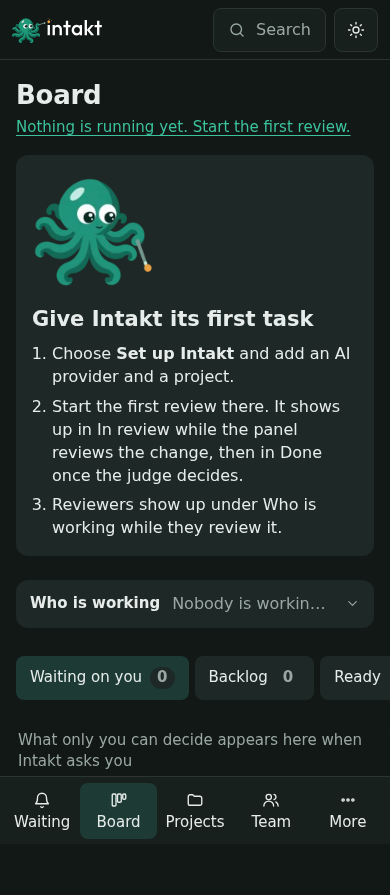
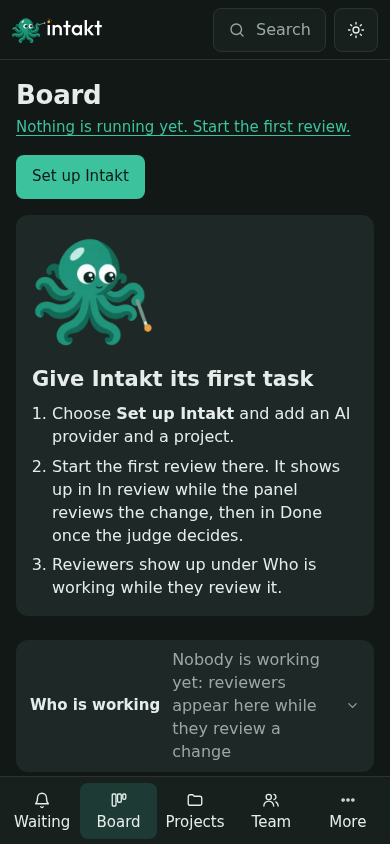
fix(design): show the first day's setup action and lane line on phones and capture the board mock

diff --git a/.evidence/2731/firstday-check.js b/.evidence/2731/firstday-check.js
@@ -1,7 +1,8 @@
 'use strict';
 // Evidence for #2731: the first-day board of a running instance with an empty ledger, light and dark, at 1440 and 390,
 // with bin/ui-check's own axe report and phone floors (bin/ui-check itself needs a review round, which the first day has none of),
-// and the mock's ?demo=firstday example at the same sizes beside it.
+// The mock's captures beside them, mock-firstday-<theme>-<width>.png, are copies of docs/design/mocks/tools/screenshots.js's
+// screens/index-<theme>-<width>-firstday.png.
 // Usage: bin/instance -- sh -c "bin/console doctrine:migrations:migrate -n -q && bin/console asset-map:compile -q && NODE_PATH=$TMPDIR/node/node_modules node .evidence/2731/firstday-check.js"
 const path = require('path');
 const root = path.resolve(__dirname, '..', '..');
@@ -37,13 +38,6 @@ const SIZES = [{ width: 1440, height: 900 }, { width: 390, height: 844 }];
       await page.screenshot({ path: path.join(OUT, `board-firstday-${theme}-${size.width}.png`), fullPage: true });
       runs.push({ page: 'board (first day)', theme, width: size.width, errors, violations, floors });
       await context.close();
-
-      const mock = await browser.newContext({ viewport: size, colorScheme: theme });
-      const mockPage = await mock.newPage();
-      await mockPage.goto('file://' + path.join(root, 'docs/design/mocks/index.html') + '?demo=firstday&theme=' + theme, { waitUntil: 'load' });
-      await mockPage.evaluate((t) => { document.documentElement.dataset.theme = t; }, theme);
-      await mockPage.screenshot({ path: path.join(OUT, `mock-firstday-${theme}-${size.width}.png`), fullPage: true });
-      await mock.close();
     }
   } finally {
     await browser.close();

diff --git a/docs/design/mocks/assets/intakt.js b/docs/design/mocks/assets/intakt.js
@@ -526,7 +526,11 @@
       document.querySelectorAll(".rail .count.needs").forEach((c) => c.remove());
       document.querySelectorAll(".banner").forEach((b) => b.remove());
       lead.innerHTML = '<a href="setup.html">Nothing is running yet. Start the first review.</a>';
-      main.querySelector(".page-head .actions").innerHTML = '<a class="btn primary" href="setup.html">Set up Intakt</a>';
+      // The first day has one action, so phones keep it instead of hiding the board's actions.
+      const actions = main.querySelector(".page-head .actions");
+      actions.classList.remove("hide-phone");
+      actions.innerHTML = '<a class="btn primary" href="setup.html">Set up Intakt</a>';
+      document.getElementById("wsum").classList.add("w-sum-wrap");
       const files = { light: "assets/octopus-waiting-light-144.webp", dark: "assets/octopus-waiting-dark-144.webp" };
       const octopus = (theme) => `<img class="octopus-${theme}" src="${files[theme]}" alt="" width="144" height="144">`;
       document.getElementById("working").insertAdjacentHTML("beforebegin", `<section class="firstday" aria-labelledby="firstday-h">${octopus("light")}${octopus("dark")}<div><h2 id="firstday-h">Give Intakt its first task</h2>

diff --git a/docs/design/mocks/assets/intakt.css b/docs/design/mocks/assets/intakt.css
@@ -711,6 +711,7 @@ textarea.input { height: auto; padding: 10px 12px; resize: vertical; }
 .w-title { font: 600 var(--t15)/1.3 var(--f-head); }
 .w-dots { display: inline-flex; gap: 4px; }
 .w-sum { color: var(--muted); flex: 1; min-width: 0; white-space: nowrap; overflow: hidden; text-overflow: ellipsis; }
+.w-sum.w-sum-wrap { white-space: normal; overflow: visible; padding: 8px 0; }
 .working .chev { transition: transform .15s; color: var(--muted); }
 .working[open] .chev { transform: rotate(180deg); }
 .working[open] summary { margin-bottom: 8px; }

diff --git a/docs/design/mocks/tools/screenshots.js b/docs/design/mocks/tools/screenshots.js
@@ -9,9 +9,10 @@ const path = require('path');
 const MOCKS = path.resolve(__dirname, '..');
 const OUT = path.join(MOCKS, 'screens');
 
-// The board, Waiting on you, task, settings and components pages land with the next part of the mocks.
+// The Waiting on you, task, settings and components pages land with the next part of the mocks.
 // Their jobs below stay; allJobs() drops them until their page is listed here.
 const PAGES = {
+  index: 'Board',
   projects: 'Projects',
   project: 'Project acme-shop',
   'add-project': 'Add a project',
